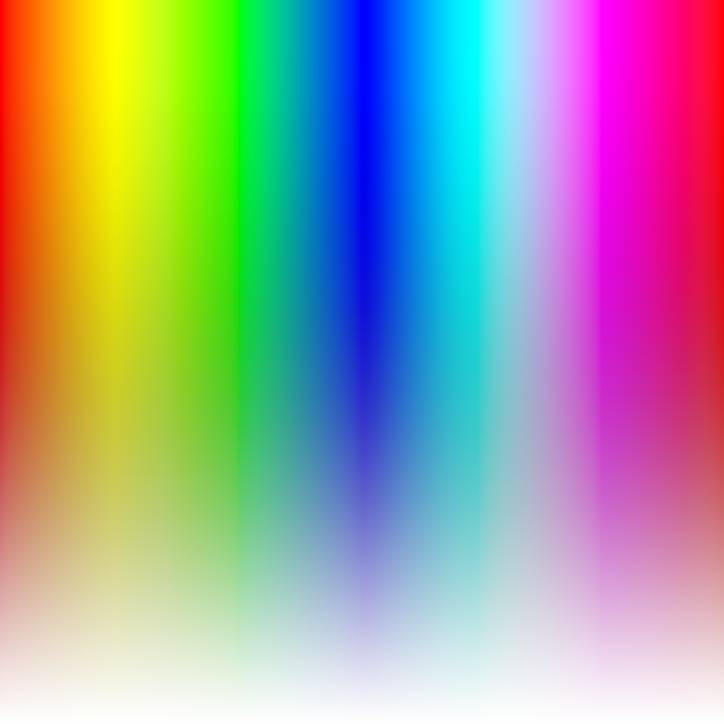
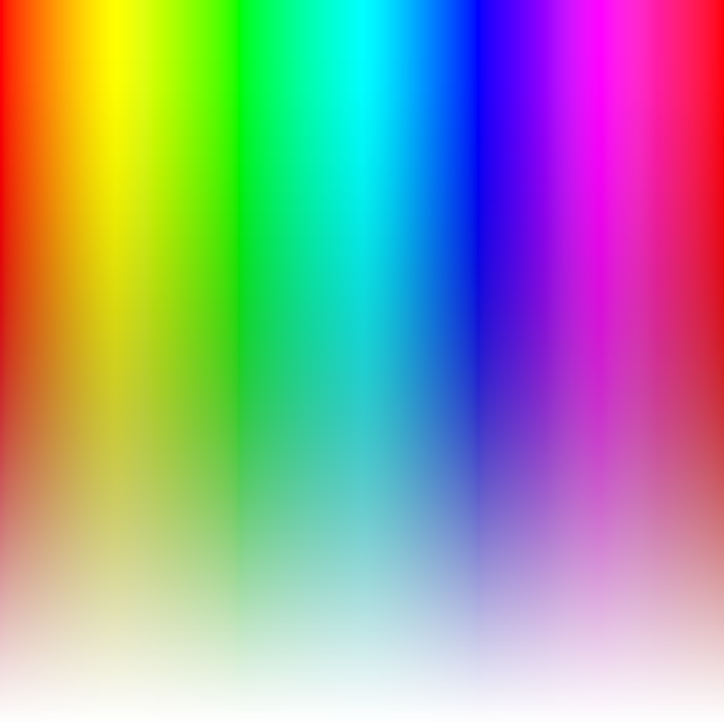
Feat : Board Type Picker

diff --git a/ColorPicker.js b/ColorPicker.js
@@ -394,6 +394,7 @@ module.exports = class ColorPicker extends Component {
 	polar (nativeEvent) {
 		const lx = nativeEvent.locationX, ly = nativeEvent.locationY
 		const [x, y] = [lx - this.wheelSize/2, ly - this.wheelSize/2]
+		if (this.props.type === 'board') return { x, y }
 		return {
 			deg: Math.atan2(y, x) * (-180 / Math.PI),
 			radius: Math.sqrt(y * y + x * x) / (this.wheelSize / 2),
@@ -410,9 +411,14 @@ module.exports = class ColorPicker extends Component {
 		}
 	}
 	updateHueSaturation = ({nativeEvent}) => {
-		const {deg, radius} = this.polar(nativeEvent), h = deg, s = 100 * radius, v = this.color.v
+		const {deg, radius, x, y} =
+				this.polar(nativeEvent),
+			h = this.props.type === 'board' ? ((this.wheelSize / 2 + x) / this.wheelSize) * 360 : deg,
+			s = this.props.type === 'board' ? ((this.wheelSize / 2 - y) / this.wheelSize) * 100 : (100 * radius),
+			v = this.props.type === 'board' ? 100 : this.color.v
 		// if(radius > 1 ) return
 		const hsv = {h,s,v}// v: 100} // causes bug
+		console.log(hsv)
 		if(this.props.autoResetSlider === true) {
 			this.slideX.setValue(0)
 			this.slideY.setValue(0)
@@ -602,27 +608,27 @@ module.exports = class ColorPicker extends Component {
 		// console.log('RENDER >>',row,thumbSize,sliderSize)
 		if (type === "board") {
 			return (
-                <View style={[ss.root,row?{flexDirection:'row'}:{},style]}>
-                    { swatches && !swatchesLast && <View style={[ss.swatches,swatchStyle,swatchFirstStyle]} key={'SW'}>{ this.swatches }</View> }
-                    { !swatchesOnly && <View style={[ss.wheel]} key={'$1'} onLayout={this.onSquareLayout}>
-                        { this.wheelWidth>0 && <View style={[{padding:thumbSize/2,width:this.wheelWidth,height:this.wheelWidth}, wheelStyle]}>
-                            <View style={[ss.wheelWrap]}>
-                                <Image style={ss.wheelImg} source={srcBoard} />
-                                <Animated.View style={[ss.wheelThumb,wheelThumbStyle,Elevations[4],{pointerEvents:'none'}]} />
-                                <View style={[ss.cover]} onLayout={this.onWheelLayout} {...wheelPanHandlers} ref={r => { this.wheel = r }}></View>
-                            </View>
-                        </View> }
-                    </View> }
-                    { !swatchesOnly && !sliderHidden && (discrete ? <View style={[ss.swatches,swatchStyle]} key={'$2'}>{ this.disc }</View> : <View style={[ss.slider,sliderStyle]} key={'$2'}>
-                        <View style={[ss.grad,{backgroundColor:hex}]}>
-                            <Image style={ss.sliderImg} source={row?srcSliderRotated:srcSlider} resizeMode="stretch" />
-                        </View>
-                        <Animated.View style={[ss.sliderThumb,sliderThumbStyle,Elevations[4],{pointerEvents:'none'}]} />
-                        <View style={[ss.cover]} onLayout={this.onSliderLayout} {...sliderPanHandlers} ref={r => { this.slider = r }}></View>
-                    </View>) }
-                    { swatches && swatchesLast && <View style={[ss.swatches,swatchStyle]} key={'SW'}>{ this.swatches }</View> }
-                </View>
-            )
+				<View style={[ss.root,row?{flexDirection:'row'}:{},style]}>
+					{ swatches && !swatchesLast && <View style={[ss.swatches,swatchStyle,swatchFirstStyle]} key={'SW'}>{ this.swatches }</View> }
+					{ !swatchesOnly && <View style={[ss.wheel]} key={'$1'} onLayout={this.onSquareLayout}>
+						{ this.wheelWidth>0 && <View style={[{padding:thumbSize/2,width:this.wheelWidth,height:this.wheelWidth}, wheelStyle]}>
+							<View style={[ss.wheelWrap]}>
+								<Image style={ss.wheelImg} source={srcBoard} />
+								<Animated.View style={[ss.wheelThumb,wheelThumbStyle,Elevations[4],{pointerEvents:'none'}]} />
+								<View style={[ss.cover]} onLayout={this.onWheelLayout} {...wheelPanHandlers} ref={r => { this.wheel = r }}></View>
+							</View>
+						</View> }
+					</View> }
+					{ !swatchesOnly && !sliderHidden && (discrete ? <View style={[ss.swatches,swatchStyle]} key={'$2'}>{ this.disc }</View> : <View style={[ss.slider,sliderStyle]} key={'$2'}>
+						<View style={[ss.grad,{backgroundColor:hex}]}>
+							<Image style={ss.sliderImg} source={row?srcSliderRotated:srcSlider} resizeMode="stretch" />
+						</View>
+						<Animated.View style={[ss.sliderThumb,sliderThumbStyle,Elevations[4],{pointerEvents:'none'}]} />
+						<View style={[ss.cover]} onLayout={this.onSliderLayout} {...sliderPanHandlers} ref={r => { this.slider = r }}></View>
+					</View>) }
+					{ swatches && swatchesLast && <View style={[ss.swatches,swatchStyle]} key={'SW'}>{ this.swatches }</View> }
+				</View>
+			)
 		}
 		return (
 			<View style={[ss.root,row?{flexDirection:'row'}:{},style]}>
